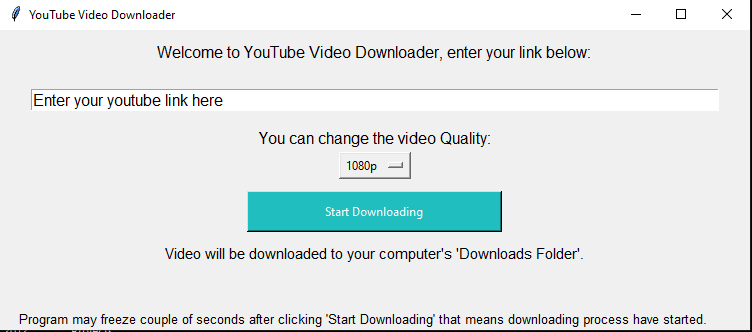
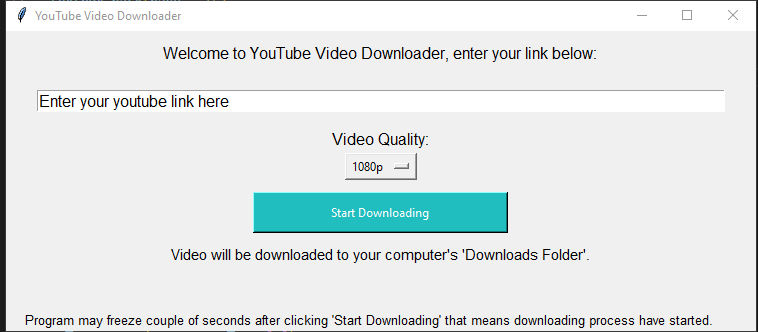
Add files via upload

diff --git a/main.py b/main.py
@@ -33,7 +33,7 @@ textbox.pack(pady = 15)
 textbox.insert(0, "Enter your youtube link here")
 
 
-l = tk.Label(root, text="You can change the video Quality:", font=("Orator Std", 12), width=70)
+l = tk.Label(root, text="Video Quality:", font=("Orator Std", 12), width=70)
 l.pack()
 
 # Resolution Entry
